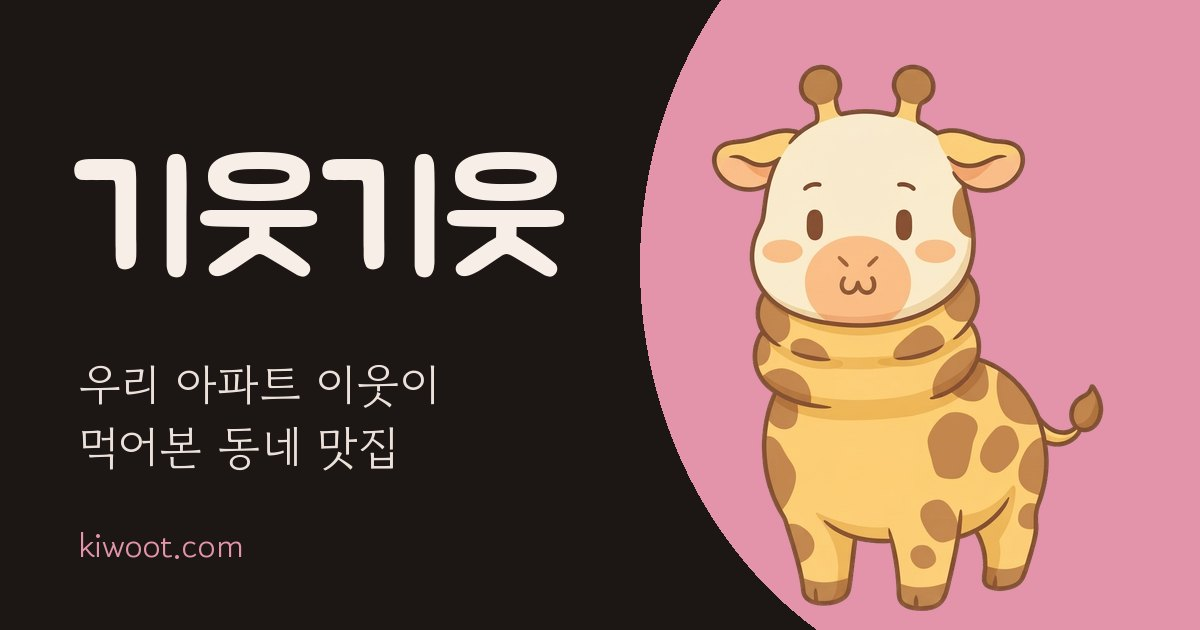
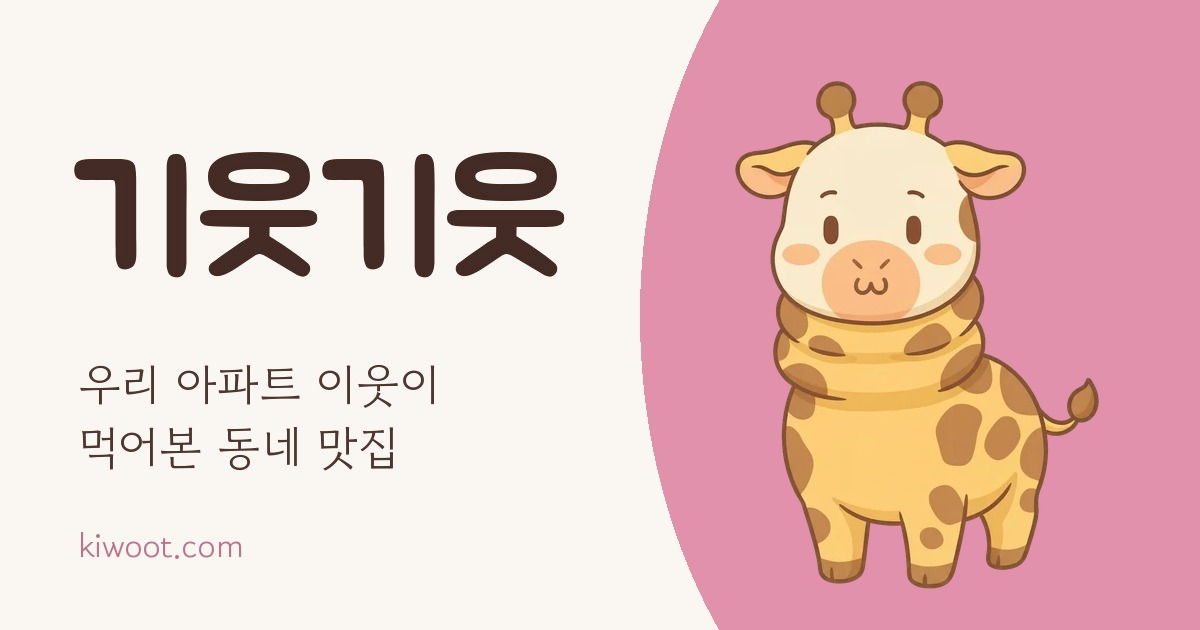
og: 웜화이트 이미지 + 설명 문구 (#14)

diff --git a/index.html b/index.html
@@ -7,8 +7,8 @@
 <meta name="theme-color" content="#FAF7F3">
 <meta property="og:type" content="website"><meta property="og:site_name" content="기웃기웃"><meta property="og:locale" content="ko_KR">
 <meta property="og:title" content="기웃기웃 | 이웃이 먹어본 동네 맛집">
-<meta property="og:description" content="별점 대신 이웃의 한마디. 동네 맛집 앱. 지금 테스터를 모집해요.">
-<meta property="og:url" content="https://kiwoot.com/"><meta property="og:image" content="https://kiwoot.com/img/og.jpg"><meta property="og:image:width" content="1200"><meta property="og:image:height" content="630">
+<meta property="og:description" content="별점 대신 이웃의 한마디. 같은 아파트 이웃이 먹어본 동네 맛집을 모아 봐요.">
+<meta property="og:url" content="https://kiwoot.com/"><meta property="og:image" content="https://kiwoot.com/img/og.jpg?v=2"><meta property="og:image:width" content="1200"><meta property="og:image:height" content="630">
 <meta name="twitter:card" content="summary_large_image">
 <link rel="icon" type="image/png" sizes="32x32" href="img/favicon-32.png"><link rel="apple-touch-icon" href="img/icon-192.png">
 <link rel="stylesheet" href="home.css">
